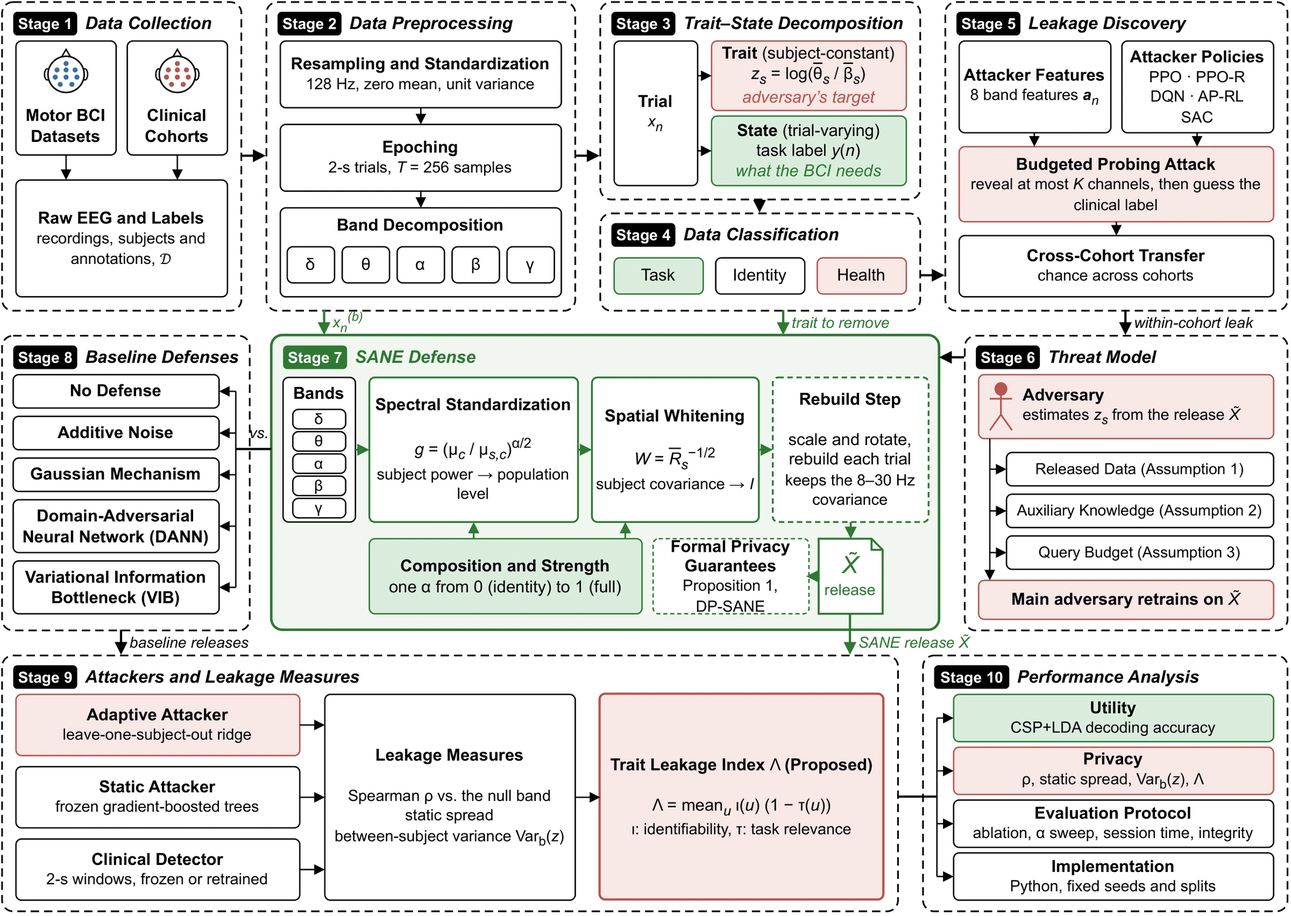
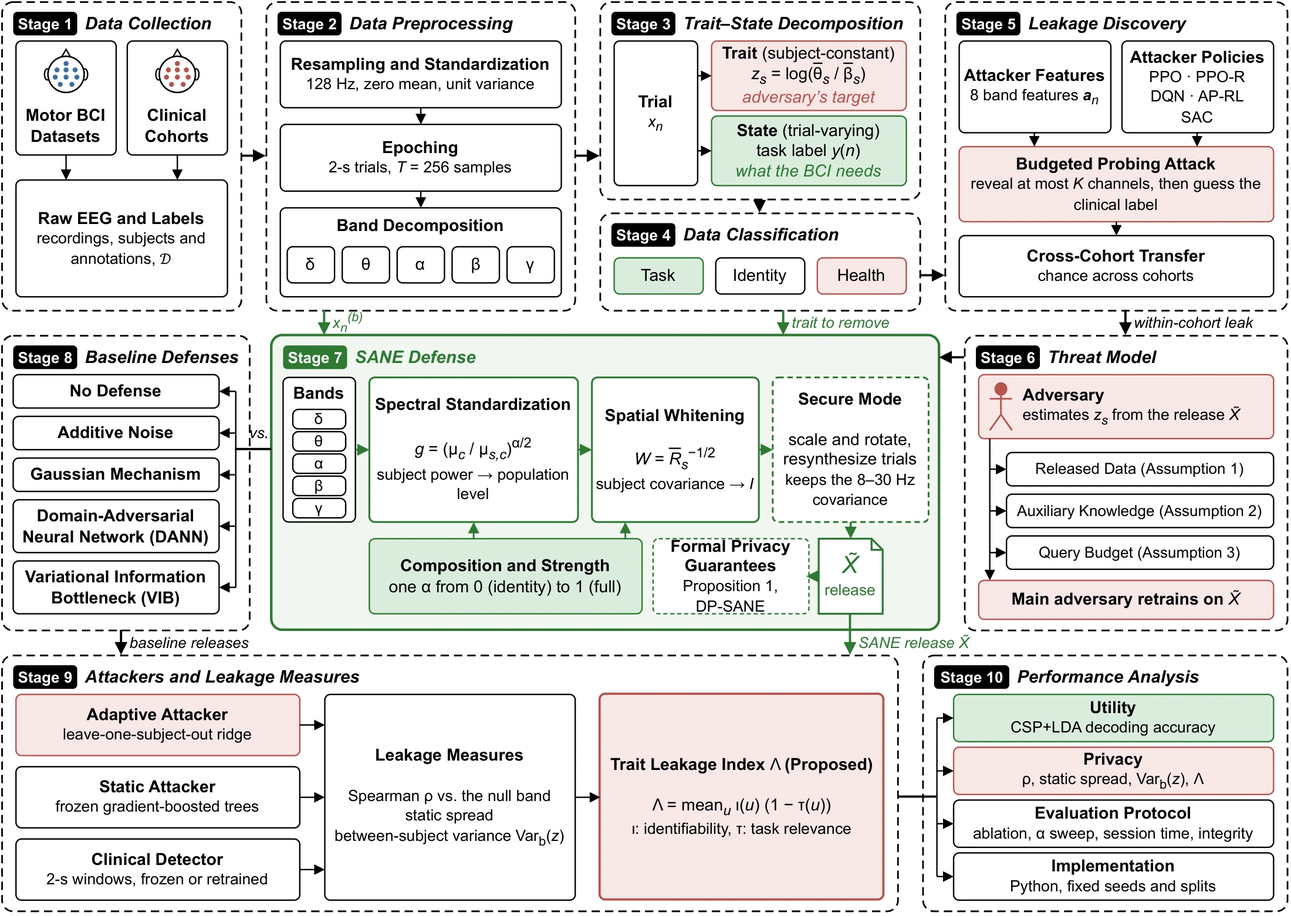
Match the project page and SANE Studio to the paper: secure mode, clinical table, Studio scope

diff --git a/index.html b/index.html
@@ -111,6 +111,9 @@ h1, h2, h3 { text-wrap: balance; margin: 0; }
 .btn-ink.paper-link.soon:hover { background: var(--ink); }
 .res.paper-link.soon:hover { border-color: var(--line); background: var(--bg); }
 .res.paper-link.soon .go { color: var(--text-3); }
+/* SANE Studio links on the double-blind review mirror, where the app cannot run (see the script at the end) */
+.studio-later { opacity: .55; cursor: default; pointer-events: none; }
+.res.studio-later .go { color: var(--text-3); }
 
 /* ------------------------------------------------------------ layout */
 .wrap { max-width: 960px; margin: 0 auto; padding-inline: 20px; }
@@ -361,7 +364,7 @@ footer a { color: var(--text-2); }
       <li class="flow-card">
         <div class="flow-top"><span class="flow-n">Contribution 2</span><span class="tag">5 motor BCI datasets</span></div>
         <h3>SANE</h3>
-        <p>A defense that removes subject-level health markers from each recording before release but keeps the brain activity that BCIs use. An added rebuild step covers releases where an attacker may also hold diagnosis labels. We tested SANE on five public BCI datasets against added noise, two learned defenses and differential privacy.</p>
+        <p>A defense that removes subject-level health markers from each recording before release but keeps the brain activity that BCIs use. Its secure mode also brings detectors retrained with diagnosis labels to chance in 15 of 16 tests, at the cost of limiting downstream decoders to the 8–30 Hz covariance. We tested SANE on five public BCI datasets against added noise, two learned defenses and differential privacy.</p>
         <p class="flow-fact">After SANE the attacker did no better than random guessing on <b>5 of 5</b> datasets. Movement decoding accuracy stayed at 77.2% on BCI IV-2a and never dropped by more than 3.2 points.</p>
       </li>
       <li class="flow-card">
@@ -423,7 +426,7 @@ footer a { color: var(--text-2); }
         </a>
         <a class="btn" href="manual.html">Read the manual</a>
       </div>
-      <p class="studio-note">The first visit downloads about 50 MB, the Python packages that run SANE in the page. All 21 recordings of an OpenNeuro reference set were processed and checked, and in a blind round of 18 random files, 12 were processed and 6 were refused with the reason. SANE Studio neutralizes biomarkers, but it does not anonymize a recording completely.</p>
+      <p class="studio-note">The first visit downloads about 50 MB, the Python packages that run SANE in the page. All 21 recordings of an OpenNeuro reference set were processed and checked, and in a blind round of 18 random files, 12 were processed and 6 were refused with the reason. SANE Studio neutralizes subject-level biomarkers, but it does not anonymize a recording completely. SANE Studio runs SANE in standard mode. A detector retrained with diagnosis labels on the released cohort can still find part of a diagnosis, so for clinical releases the paper recommends secure mode, which works on whole trials and is not part of SANE Studio.</p>
     </div>
   </section>
 
@@ -485,7 +488,7 @@ footer a { color: var(--text-2); }
       <a href="static/img/fig_method.webp"><img src="static/img/fig_method.webp" width="2200" height="1562" loading="lazy"
          alt="Workflow of the study in ten stages, from data collection to performance analysis, with data classification as Stage 4 and the SANE defense as Stage 7"></a>
     </figure>
-    <p class="fig-cap"><b>Workflow of the study in ten stages.</b> Each stage matches a subsection of the paper’s method. Stage 4 sorts the data into task, identity and health classes, and Stage 7 is the SANE defense, with the added rebuild step dashed.</p>
+    <p class="fig-cap"><b>Workflow of the study in ten stages.</b> Each stage matches a subsection of the paper’s method. Stage 4 sorts the data into task, identity and health classes, and Stage 7 is the SANE defense, with its secure mode dashed.</p>
 
     <div class="pipeline" aria-label="Processing steps">
       <span>Raw EEG</span><em>→</em>
@@ -545,7 +548,7 @@ footer a { color: var(--text-2); }
     <div class="table-block" style="margin-top:40px">
       <div class="table-wrap">
         <table>
-          <caption>Privacy and utility of SANE at <i>α</i> = 1</caption>
+          <caption>Privacy and utility of SANE at <i>α</i> = 1, in standard and secure mode</caption>
           <thead><tr><th scope="col">Measure</th><th scope="col">BCI IV-2a</th><th scope="col">BCI IV-2b</th><th scope="col">Steyrl</th><th scope="col">Faller</th><th scope="col">PhysioNet</th></tr></thead>
           <tbody>
             <tr><td>CSP+LDA accuracy, undefended <span class="arrow">→</span> SANE</td><td class="num">0.772 → 0.772</td><td class="num">0.704 → 0.676</td><td class="num">0.785 → 0.779</td><td class="num">0.742 → 0.710</td><td class="num">0.590 → 0.578</td></tr>
@@ -554,15 +557,15 @@ footer a { color: var(--text-2); }
             <tr><td>Null band of <i>ρ</i></td><td class="num">[−0.87, 0.55]</td><td class="num">[−0.83, 0.65]</td><td class="num">[−0.72, 0.51]</td><td class="num">[−0.73, 0.59]</td><td class="num">[−0.45, 0.38]</td></tr>
             <tr><td>Stronger attacker <i>ρ</i>, undefended</td><td class="num">−0.53 / −0.03</td><td class="num"><span class="leak">0.83‡</span> / <span class="leak">0.68‡</span></td><td class="num">−0.45 / <span class="leak">0.60‡</span></td><td class="num">0.10 / <span class="leak">0.62‡</span></td><td class="num"><span class="leak">0.78‡</span> / <span class="leak">0.86‡</span></td></tr>
             <tr><td>Stronger attacker <i>ρ</i>, SANE</td><td class="num"><span class="hid">−0.80</span> / <span class="hid">−0.62</span></td><td class="num"><span class="hid">0.20</span> / <span class="leak">0.75‡</span></td><td class="num"><span class="hid">0.45</span> / <span class="hid">−0.51</span></td><td class="num"><span class="hid">−0.70</span> / <span class="hid">−0.44</span></td><td class="num"><span class="hid">0.19</span> / <span class="leak">0.63‡</span></td></tr>
-            <tr><td>Stronger attacker <i>ρ</i>, with rebuild step</td><td class="num hid">0.17 / −0.68</td><td class="num hid">0.02 / −0.08</td><td class="num hid">−0.32 / −0.70</td><td class="num hid">−0.20 / 0.25</td><td class="num hid">−0.15 / −0.21</td></tr>
+            <tr><td>Stronger attacker <i>ρ</i>, SANE secure mode</td><td class="num hid">0.17 / −0.68</td><td class="num hid">0.02 / −0.08</td><td class="num hid">−0.32 / −0.70</td><td class="num hid">−0.20 / 0.25</td><td class="num hid">−0.15 / −0.21</td></tr>
             <tr><td>Trait Leakage Index, undefended <span class="arrow">→</span> SANE</td><td class="num">0.311 → 0.002</td><td class="num">0.272 → 0.006</td><td class="num">0.238 → 0.005</td><td class="num">0.297 → 0.005</td><td class="num">0.432 → 0.007</td></tr>
             <tr><td>SANE runtime, whole dataset</td><td class="num">5.9 s</td><td class="num">1.7 s</td><td class="num">4.0 s</td><td class="num">6.2 s</td><td class="num">47.8 s</td></tr>
-            <tr><td>CSP+LDA accuracy, with rebuild step</td><td class="num">0.772</td><td class="num">0.676</td><td class="num">0.779</td><td class="num">0.710</td><td class="num">0.581</td></tr>
-            <tr><td>Attacker <i>ρ</i>, with rebuild step</td><td class="num hid">−0.45</td><td class="num hid">0.32</td><td class="num hid">−0.48</td><td class="num hid">0.41</td><td class="num">0.40†</td></tr>
+            <tr><td>CSP+LDA accuracy, SANE secure mode</td><td class="num">0.772</td><td class="num">0.676</td><td class="num">0.779</td><td class="num">0.710</td><td class="num">0.581</td></tr>
+            <tr><td>Attacker <i>ρ</i>, SANE secure mode</td><td class="num hid">−0.45</td><td class="num hid">0.32</td><td class="num hid">−0.48</td><td class="num hid">0.41</td><td class="num">0.40†</td></tr>
           </tbody>
         </table>
       </div>
-      <p class="t-note">CSP+LDA = common spatial patterns with linear discriminant analysis. <i>ρ</i> = Spearman correlation between each subject’s true and estimated theta/beta ratio, * = significant at <i>p</i> &lt; 0.05. The null band is the 95% range of <i>ρ</i> on releases without biomarker information (1,000 simulations), and every value of the attacker after SANE lies inside it. † Just outside it for this random seed of the rebuild step, inside it for the other two (0.06 and −0.02). The stronger attacker also reads the 1/f slope, the peak alpha frequency, the spectral shape inside each band and the variability across trials, and each cell gives its <i>ρ</i> with gradient boosting / ridge regression. ‡ = outside the null band. With gradient boosting it stayed inside the band after SANE on all five datasets, but with 9 to 14 subjects it also missed the biomarker on undefended BCI IV-2a, Steyrl and Faller. With ridge regression it still recovered the biomarker after SANE on BCI IV-2b and PhysioNet, and with the rebuild step both stayed inside the band.</p>
+      <p class="t-note">CSP+LDA = common spatial patterns with linear discriminant analysis. <i>ρ</i> = Spearman correlation between each subject’s true and estimated theta/beta ratio, * = significant at <i>p</i> &lt; 0.05. The null band is the 95% range of <i>ρ</i> on releases without biomarker information (1,000 simulations), and every value of the attacker after SANE lies inside it. SANE means standard mode unless a row says secure mode. † Just outside it for this random seed of secure mode, inside it for the other two (0.06 and −0.02). The stronger attacker also reads the 1/f slope, the peak alpha frequency, the spectral shape inside each band and the variability across trials, and each cell gives its <i>ρ</i> with gradient boosting / ridge regression. ‡ = outside the null band. With gradient boosting it stayed inside the band after SANE on all five datasets, but with 9 to 14 subjects it also missed the biomarker on undefended BCI IV-2a, Steyrl and Faller. With ridge regression it still recovered the biomarker after SANE on BCI IV-2b and PhysioNet, and in secure mode both stayed inside the band.</p>
     </div>
 
     <div class="table-block">
@@ -578,27 +581,27 @@ footer a { color: var(--text-2); }
             <tr><td>Domain-adversarial neural network (DANN)</td><td class="num">0.508 / <span class="leak">0.97*</span></td><td class="num">0.685 / <span class="leak">0.80*</span></td><td class="num">0.560 / <span class="leak">0.80*</span></td><td class="num">0.571 / <span class="leak">0.92*</span></td><td class="num">0.478 / <span class="leak">0.91*</span></td></tr>
             <tr><td>Variational information bottleneck (VIB)</td><td class="num">0.520 / <span class="leak">0.97*</span></td><td class="num">0.687 / <span class="leak">0.87*</span></td><td class="num">0.610 / <span class="leak">0.91*</span></td><td class="num">0.600 / <span class="leak">0.86*</span></td><td class="num">0.528 / <span class="leak">0.99*</span></td></tr>
             <tr class="sane-row"><td>SANE</td><td class="num">0.700 / −0.65</td><td class="num">0.672 / 0.42</td><td class="num">0.645 / −0.24</td><td class="num">0.620 / 0.43</td><td class="num">0.560 / 0.18</td></tr>
-            <tr><td>SANE with rebuild step</td><td class="num">0.557 / −0.45</td><td class="num">0.585 / 0.32</td><td class="num">0.606 / −0.48</td><td class="num">0.569 / 0.41</td><td class="num">0.519 / <span class="leak">0.40*†</span></td></tr>
+            <tr><td>SANE, secure mode</td><td class="num">0.557 / −0.45</td><td class="num">0.585 / 0.32</td><td class="num">0.606 / −0.48</td><td class="num">0.569 / 0.41</td><td class="num">0.519 / <span class="leak">0.40*†</span></td></tr>
           </tbody>
         </table>
       </div>
-      <p class="t-note">Each cell gives the feature-level accuracy and the attacker’s <i>ρ</i>. * = <i>ρ</i> significant at <i>p</i> &lt; 0.05, so the biomarker can still be recovered. SANE is the only defense without a significant <i>ρ</i> on any dataset. Differential privacy at <i>ε</i> = 1 hid the biomarker on four datasets, but with accuracy near chance. With the rebuild step these features decoded at only 0.519 to 0.606, as the step keeps the 8–30 Hz covariance but not the band powers. † As in the first table.</p>
+      <p class="t-note">Each cell gives the feature-level accuracy and the attacker’s <i>ρ</i>. * = <i>ρ</i> significant at <i>p</i> &lt; 0.05, so the biomarker can still be recovered. SANE is the only defense without a significant <i>ρ</i> on any dataset. Differential privacy at <i>ε</i> = 1 hid the biomarker on four datasets, but with accuracy near chance. In secure mode these features decoded at only 0.519 to 0.606, as resynthesis keeps the 8–30 Hz covariance but not the band powers. † As in the first table.</p>
     </div>
 
     <div class="table-block">
       <div class="table-wrap">
         <table>
-          <caption>Clinical detectors retrained on the release, after SANE and with SANE’s rebuild step (subject-level AUC)</caption>
-          <thead><tr><th scope="col">Cohort</th><th scope="col">SANE, band power</th><th scope="col">SANE, 1-Hz spectrum</th><th scope="col">SANE, channel coupling</th><th scope="col">SANE, 8–30 Hz covariance</th><th scope="col">Rebuild, band power</th><th scope="col">Rebuild, 1-Hz spectrum</th><th scope="col">Rebuild, channel coupling</th><th scope="col">Rebuild, 8–30 Hz covariance</th></tr></thead>
+          <caption>Subject-level AUC of the clinical detectors after SANE in standard and secure mode</caption>
+          <thead><tr><th scope="col">Cohort</th><th scope="col">Undefended</th><th scope="col">Standard mode, frozen</th><th scope="col">Standard mode, retrained</th><th scope="col">Secure mode, band power</th><th scope="col">Secure mode, 1-Hz spectrum</th><th scope="col">Secure mode, channel coupling</th><th scope="col">Secure mode, 8–30 Hz covariance</th></tr></thead>
           <tbody>
-            <tr><td>MDD1</td><td class="num leak">0.862*</td><td class="num leak">1.000*</td><td class="num leak">0.874*</td><td class="num leak">0.798*</td><td class="num hid">0.494</td><td class="num hid">0.591</td><td class="num hid">0.418</td><td class="num leak">0.667*</td></tr>
-            <tr><td>ADHD1</td><td class="num hid">0.607</td><td class="num leak">0.784*</td><td class="num hid">0.393</td><td class="num leak">0.692*</td><td class="num hid">0.367</td><td class="num hid">0.427</td><td class="num hid">0.548</td><td class="num hid">0.477</td></tr>
-            <tr><td>ADHD2</td><td class="num leak">0.744*</td><td class="num leak">0.849*</td><td class="num leak">0.724*</td><td class="num leak">0.685*</td><td class="num hid">0.421</td><td class="num hid">0.436</td><td class="num hid">0.501</td><td class="num hid">0.535</td></tr>
-            <tr><td>PD1</td><td class="num leak">0.628*</td><td class="num hid">0.565</td><td class="num hid">0.558</td><td class="num leak">0.636*</td><td class="num hid">0.515</td><td class="num hid">0.427</td><td class="num hid">0.537</td><td class="num hid">0.492</td></tr>
+            <tr><td>MDD1</td><td class="num leak">0.984*</td><td class="num hid">0.444</td><td class="num leak">0.862*</td><td class="num hid">0.494</td><td class="num hid">0.591</td><td class="num hid">0.418</td><td class="num leak">0.667*</td></tr>
+            <tr><td>ADHD1</td><td class="num leak">0.972*</td><td class="num hid">0.560</td><td class="num hid">0.607</td><td class="num hid">0.367</td><td class="num hid">0.427</td><td class="num hid">0.548</td><td class="num hid">0.477</td></tr>
+            <tr><td>ADHD2</td><td class="num leak">0.801*</td><td class="num hid">0.561</td><td class="num leak">0.744*</td><td class="num hid">0.421</td><td class="num hid">0.436</td><td class="num hid">0.501</td><td class="num hid">0.535</td></tr>
+            <tr><td>PD1</td><td class="num leak">0.620*</td><td class="num hid">0.462</td><td class="num leak">0.628*</td><td class="num hid">0.515</td><td class="num hid">0.427</td><td class="num hid">0.537</td><td class="num hid">0.492</td></tr>
           </tbody>
         </table>
       </div>
-      <p class="t-note">Each detector is trained and tested on the released two-second windows of one cohort with diagnosis labels. * = significant at <i>p</i> &lt; 0.05 (2,000 label permutations), so the diagnosis can still be recovered. The rebuild step is added for releases where an attacker may hold diagnosis labels. It keeps each trial’s 8–30 Hz covariance, which CSP decoders read, and rebuilds everything else from shared noise, so the decoding accuracy stays the same as with SANE.</p>
+      <p class="t-note">Frozen = band-power detector trained on undefended windows and tested on SANE windows. Retrained = the same detector trained and tested on the standard-mode release of one cohort, with diagnosis labels. In secure mode, detectors were retrained on band powers, the 1-Hz spectrum, the correlation between channel pairs in each band and the 8–30 Hz covariance. * = significant at <i>p</i> &lt; 0.05 (2,000 label permutations), so the diagnosis can still be recovered. In standard mode, detectors retrained on the 1-Hz spectrum, the channel coupling or the 8–30 Hz covariance also recovered the label, the covariance in all four cohorts. Secure mode is for releases where an attacker may hold diagnosis labels. It keeps each trial’s 8–30 Hz covariance, which CSP decoders read, and resynthesizes everything else from shared noise, so the decoding accuracy stays the same as in standard mode.</p>
     </div>
   </section>
 
@@ -610,11 +613,11 @@ footer a { color: var(--text-2); }
     </div>
     <ul class="limits">
       <li><b>The leak was measured for three disorders.</b> The six cohorts cover Parkinson’s disease, depression and ADHD only. A detector trained on one cohort did not work on the other cohort of the same disorder (AUC 0.386 to 0.621), and MDD2 showed no leak at all, so other disorders and recording setups may behave differently.</li>
-      <li><b>SANE removes the profile it targets, not every trace.</b> It equalizes each subject’s band power and channel covariance. The spectral shape inside each band, the variability across windows and other structure, such as cross-frequency coupling, are not equalized, and a stronger attacker with ridge regression used them to recover the biomarker after SANE on BCI IV-2b (<i>ρ</i> = 0.75) and PhysioNet (0.63). The rebuild step removed this structure too. The Trait Leakage Index measures the same second-order structure, so an index near zero is not a certificate.</li>
+      <li><b>SANE removes the profile it targets, not every trace.</b> It equalizes each subject’s band power and channel covariance. The spectral shape inside each band, the variability across windows and other structure, such as cross-frequency coupling, are not equalized, and a stronger attacker with ridge regression used them to recover the biomarker after SANE on BCI IV-2b (<i>ρ</i> = 0.75) and PhysioNet (0.63). Secure mode removed this structure too. The Trait Leakage Index is a targeted measure of these second-order traits, not a universal privacy certificate.</li>
       <li><b>The BCI tests use one marker and small datasets.</b> On the five BCI datasets the sensitive marker was the theta/beta ratio. The datasets hold 9 to 40 subjects, which limits the power to detect a weak residual.</li>
-      <li><b>“Neutralized” holds against attackers trained on undefended EEG.</b> On the clinical cohorts, a detector retrained on SANE output from the same cohort still recovered part of the diagnosis, with an AUC of 0.862 on MDD1 and 0.744 on ADHD2. SANE’s added rebuild step brought 15 of 16 such tests to chance at the same accuracy. It keeps only each trial’s 8–30 Hz covariance, which still carried a weak trace on MDD1 (0.667), and decoders that read the timing inside a trial would lose accuracy.</li>
+      <li><b>“Neutralized” holds against attackers trained on undefended EEG.</b> On the clinical cohorts, a detector retrained on SANE output from the same cohort still recovered part of the diagnosis, with an AUC of 0.862 on MDD1 and 0.744 on ADHD2. SANE’s secure mode brought 15 of 16 such tests to chance at the same accuracy, and we recommend it for every clinical release. It keeps only each trial’s 8–30 Hz covariance, which still carried a weak trace on MDD1 (0.667), and decoders that read the timing inside a trial would lose accuracy.</li>
       <li><b>The task signal survives, but the waveform changes.</b> CSP+LDA lost at most 3.2 points because it reads how trials differ. Decoders that rely on absolute spectral shape would lose more, and a released trial is a re-mixed signal that is not suited to clinical reading.</li>
-      <li><b>No formal guarantee, and batch releases only.</b> DP-SANE adds the Gaussian mechanism to SANE, but at the noise levels tested the accuracy fell close to chance. SANE needs the statistics of every subject, so it suits a dataset released as a whole, and SANE Studio does not anonymize a recording completely.</li>
+      <li><b>No formal guarantee, and bulk releases only.</b> In our tests, standard differential privacy hid the biomarker only where decoding fell to chance, and DP-SANE fell close to chance as well, so SANE relies on the empirical bound of the paper’s Proposition 1 instead. SANE needs the statistics of every subject, so the threat model covers bulk, retrospective releases of whole datasets, as on PhysioNet or OpenNeuro. Real-time interception of single trials from consumer headsets is out of scope, and SANE Studio does not anonymize a recording completely.</li>
     </ul>
   </section>
 
@@ -745,6 +748,19 @@ footer a { color: var(--text-2); }
     bib.textContent = bib.textContent.replace(/@misc\{[^,]*,/, "@misc{anonymous2026sane,")
       .replace(/author(\s*)=\s*\{.*\},/, "author$1= {Anonymous},")
       .replace(/\\url\{[^}]*\}/, "\\url{" + repo + "}");
+    /* The mirror runs pages in a sandbox without their own origin, where SANE Studio cannot load its scripts or
+       its Python engine, so the Studio links say that the live demo comes after the review. */
+    document.querySelectorAll('a[href="studio.html"]').forEach(function (a) {
+      var s = document.createElement("span");
+      s.className = (a.className + " studio-later").trim();
+      s.setAttribute("aria-disabled", "true");
+      s.innerHTML = a.innerHTML;
+      a.replaceWith(s);
+    });
+    var walk = document.createTreeWalker(document.body, NodeFilter.SHOW_TEXT);
+    for (var t = walk.nextNode(); t; t = walk.nextNode()) {
+      if (t.nodeValue.trim() === "Open SANE Studio") t.nodeValue = t.nodeValue.replace("Open SANE Studio", "Live demo after review");
+    }
   }
 
   /* ---------------------------------------------------- theme toggle, shared with SANE Studio */

diff --git a/manual.html b/manual.html
@@ -181,7 +181,7 @@
         <tr><td></td><td>File format, sampling rate, channel names, channel order and recording length</td></tr>
       </tbody>
     </table></div>
-    <div class="callout warn"><b>What SANE Studio is not</b>SANE Studio neutralizes subject-level spectral and spatial biomarkers. It is not a complete anonymization tool. Individual traits outside those statistics, such as the exact frequency of a person's alpha peak, can remain in the data. Treat processed files as de-identified research data, not as anonymous data.</div>
+    <div class="callout warn"><b>What SANE Studio is not</b>SANE Studio neutralizes subject-level spectral and spatial biomarkers. It is not a complete anonymization tool. Individual traits outside those statistics, such as the exact frequency of a person's alpha peak, can remain in the data. Treat processed files as de-identified research data, not as anonymous data. SANE Studio runs SANE in standard mode. A detector retrained with diagnosis labels on the released cohort can still find part of a diagnosis, so for clinical releases the paper recommends secure mode, which works on whole trials and is not part of SANE Studio.</div>
 
     <!-- ===================================================== 2 -->
     <h2 id="start"><span class="num">2</span>Starting SANE Studio</h2>
@@ -391,7 +391,7 @@
         <p>By default it is set to <strong>Auto</strong>, shown as <code>Auto · full</code> or <code>Auto · off</code>:</p>
         <ul>
           <li><strong>Auto · full</strong> when recordings are aligned to your own cohort. The cohort is a measured reference, and in our tests the output kept a brain-dynamics score of 0.92 to 0.99. In this mode spatial alignment follows the strength: at strength 0.5 it is also 0.5.</li>
-          <li><strong>Auto · off</strong> when recordings are aligned to the built-in normative profile. The only spatial target there is a generic head model, and aligning to it rebuilds each channel largely from its neighbours, which costs much more of the signal.</li>
+          <li><strong>Auto · off</strong> when recordings are aligned to the built-in normative profile. The only spatial target there is a generic head model, and aligning to it reconstructs each channel largely from its neighbours, which costs much more of the signal.</li>
         </ul>
       </div>
     </div>
@@ -692,7 +692,7 @@
       <li><strong>Personal header fields are stripped by default</strong> (<a href="#settings">section 8</a>).</li>
       <li><strong>When you run SANE Studio on your own computer, your data never leaves it.</strong> Working files go to the folder set by <code>SANE_DATA_DIR</code> (<a href="#admin">section 17</a>).</li>
     </ul>
-    <div class="callout warn"><b>Limits</b>SANE Studio removes subject-level spectral and spatial biomarkers. It does not remove every individual trait. File names, the folder structure of a dataset, and information inside events (for example a label containing a name) are not changed. Check these yourself before sharing data.</div>
+    <div class="callout warn"><b>Limits</b>SANE Studio removes subject-level spectral and spatial biomarkers. It does not remove every individual trait. File names, the folder structure of a dataset, and information inside events (for example a label containing a name) are not changed. Check these yourself before sharing data. SANE Studio runs SANE in standard mode. A detector retrained with diagnosis labels on the released cohort can still find part of a diagnosis, so for clinical releases the paper recommends secure mode, which works on whole trials and is not part of SANE Studio.</div>
 
     <!-- ===================================================== 15 -->
     <h2 id="messages"><span class="num">15</span>Messages and what to do</h2>
@@ -848,7 +848,7 @@ python tests/test_downloaded.py D:/sane_testdata http://localhost:8000</pre>
 
 <footer class="site">
   <span>SANE Studio · Spectral Attribute Neutralization for EEG</span>
-  <span>SANE neutralizes subject-level spectral and spatial biomarkers. It is not a complete anonymization tool.</span>
+  <span>SANE Studio runs SANE in standard mode, which neutralizes subject-level spectral and spatial biomarkers. It is not a complete anonymization tool.</span>
 </footer>
 <script>
   document.getElementById("themeBtn").addEventListener("click", () => {
@@ -856,6 +856,16 @@ python tests/test_downloaded.py D:/sane_testdata http://localhost:8000</pre>
     document.documentElement.dataset.theme = dark ? "light" : "dark";
     try { localStorage.setItem("sane-theme", document.documentElement.dataset.theme); } catch (_) { /* private mode */ }
   });
+  /* On the double-blind review mirror SANE Studio cannot run (sandboxed pages), so the button says so. */
+  if (location.hostname === "anonymous.4open.science") {
+    document.querySelectorAll('a.btn[href="studio.html"]').forEach(function (a) {
+      a.textContent = "Live demo after review";
+      a.removeAttribute("href");
+      a.setAttribute("aria-disabled", "true");
+      a.style.opacity = ".55";
+      a.style.pointerEvents = "none";
+    });
+  }
 </script>
 </body>
 </html>

diff --git a/js/app.js b/js/app.js
@@ -202,7 +202,7 @@ function refHint() {
   $("spatialField").style.opacity = cohort || +$("spAlpha").value === 0 ? 0.5 : 1;
 }
 // Spatial alignment defaults to automatic: full when aligning to a measured cohort,
-// off against the generic head model, where it would rebuild channels from neighbours.
+// off against the generic head model, where it would reconstruct channels from neighbours.
 function spatialAuto(cohort) {
   const s = $("spAlpha");
   $("spAuto").hidden = !state.spTouched;
@@ -447,7 +447,7 @@ function renderReport() {
       <td class="num" title="${esc(Object.entries(r.dynamics_bands || {}).map(([b, v]) => `${b} ${fmtNum(v, 3)}`).join(" · "))}">${fmtNum(r.dynamics_mean)}</td>
       <td class="num">${fmtNum(r.fidelity_mean)}</td><td class="num">${r.events}</td>
       <td class="mono" style="font-size:12px">${r.outputs.map((o) => esc(o).replace(/_/g, "_<wbr>")).join("<br>")}</td></tr>`).join("") + `</tbody></table></div>`;
-  html += `<div class="scope"><b>Scope.</b> SANE neutralizes subject-level spectral and spatial biomarkers, the per-channel band-power profile and the per-band channel covariance. Trial-level dynamics, events and auxiliary channels are preserved. Windows with saturation, spikes or flat signal are excluded from fitting (“Fit windows”) and from the fidelity scores. “Dynamics kept” is the within-band correlation of each channel with its input; it ignores the intended rescaling of bands and drops only when channels are remixed by spatial alignment. SANE is not a complete anonymization method: individual traits outside these statistics, such as alpha peak frequency, can remain.</div>
+  html += `<div class="scope"><b>Scope.</b> SANE neutralizes subject-level spectral and spatial biomarkers, the per-channel band-power profile and the per-band channel covariance. Trial-level dynamics, events and auxiliary channels are preserved. Windows with saturation, spikes or flat signal are excluded from fitting (“Fit windows”) and from the fidelity scores. “Dynamics kept” is the within-band correlation of each channel with its input; it ignores the intended rescaling of bands and drops only when channels are remixed by spatial alignment. SANE is not a complete anonymization method: individual traits outside these statistics, such as alpha peak frequency, can remain. SANE Studio runs SANE in standard mode. A detector retrained with diagnosis labels on the released cohort can still find part of a diagnosis, so for clinical releases the paper recommends secure mode, which works on whole trials and is not part of SANE Studio.</div>
     <div style="margin-top:14px"><button class="btn" id="exportReport">Export report (JSON)</button></div>`;
   $("reportBody").innerHTML = html;
   $("exportReport").onclick = () => {

diff --git a/studio.html b/studio.html
@@ -285,10 +285,25 @@
 
 <footer class="site">
   <span>SANE Studio · Spectral Attribute Neutralization for EEG</span>
-  <span>SANE neutralizes subject-level spectral and spatial biomarkers. It is not a complete anonymization tool.</span>
+  <span>SANE Studio runs SANE in standard mode, which neutralizes subject-level spectral and spatial biomarkers. It is not a complete anonymization tool.</span>
 </footer>
 <div class="toast" id="toast" hidden></div>
 
+<script>
+  /* The double-blind review mirror runs pages in a sandbox without their own origin, where this app cannot load
+     its scripts or its Python engine. Show a notice there instead of a page that does not respond. */
+  if (location.hostname === "anonymous.4open.science") {
+    var repo = location.origin + "/r/" + location.pathname.split("/")[2];
+    document.querySelector("main").innerHTML =
+      '<section style="max-width:620px;margin:72px auto;padding:28px 30px;border:1px solid var(--line);' +
+      'border-radius:14px;background:var(--surface)">' +
+      '<h1 style="font-size:22px;line-height:1.3;margin:0 0 12px">The live demo will be released after review</h1>' +
+      '<p class="muted" style="margin:0 0 10px">This mirror keeps the authors anonymous during double-blind review. ' +
+      'It runs pages in a sandbox where SANE Studio cannot load its Python engine.</p>' +
+      '<p class="muted" style="margin:0">The full source code is in <a style="color:var(--out)" href="' + repo + '">the anonymous repository</a>, ' +
+      'and its README explains how to run SANE Studio on your own computer.</p></section>';
+  }
+</script>
 <script type="module" src="js/app.js"></script>
 </body>
 </html>

diff --git a/py/app/engine.py b/py/app/engine.py
@@ -258,7 +258,7 @@ def build_operators(units, bands, alpha, reference="auto", spatial_model="kernel
     alpha sets spectral neutralization; spatial_alpha sets how far the spatial covariance
     is moved, so channel-specific analyses can keep more of it. None means automatic:
     alpha for units aligned to a cohort (a measured reference) and 0 for normative units,
-    where the only spatial target is a generic head model and alignment rebuilds each
+    where the only spatial target is a generic head model and alignment reconstructs each
     channel largely from its neighbours.
     """
     nb = len(bands)
